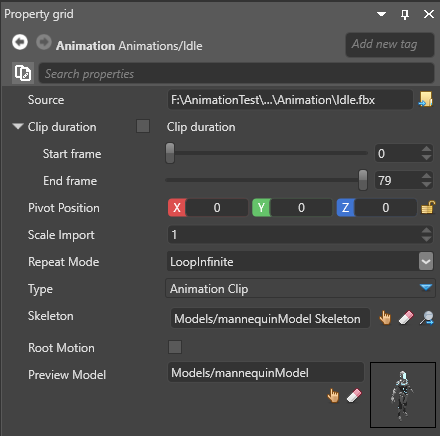
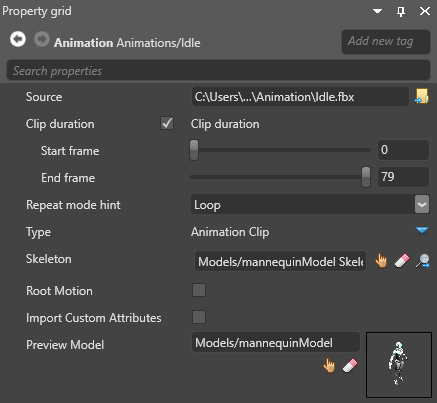
[Animation] update with custom attributes

diff --git a/en/manual/animation/custom-animation-attributes.md b/en/manual/animation/custom-animation-attributes.md
@@ -1,0 +1,97 @@
+# Custom animation properties
+
+<span class="label label-doc-level">Intermediate</span>
+
+You can import custom attributes created modeling tools such as Maya into Xenko.
+
+![Maya properties](media/custom-attributes-in-maya.png)
+
+## 1. Import custom attributes
+
+1. Import the animation. For instructions, see [Import animations](import-animations.md).
+
+2. In the **asst view**, select the animation asset.
+
+    ![Assets in asset view](media/assets-in-asset-view1.png)
+
+2. In the **property grid**, select **Import custom attributes**.
+
+    ![Custom attributes](media/import-custom-attributes.png)
+
+    When the assets are built, Xenko imports the custom attributes from the FBX file.
+
+## 2. Control custom attributes with a script
+
+Add a script to read the custom attributes and bind them to a property. This can be a separate script, or part of another [animation script](animation-scripts.md).
+
+The name of the property on the Xenko side is `NodeName_PropertyName`. For example, if you have the node `myNode` with the custom attribute `myProperty`, use `myNode_myProperty`.
+
+### Example script
+
+```cs
+using SiliconStudio.Xenko.Animations;
+using SiliconStudio.Xenko.Engine;
+using SiliconStudio.Xenko.Rendering;
+using SiliconStudio.Xenko.Audio;
+using SiliconStudio.Xenko.Rendering.Materials;
+ 
+namespace Sample
+{ 
+    public class HologramScript : SyncScript
+    { 
+        public Material MyMaterial;
+ 
+        private AnimationComponent animationComponent;
+        private AnimationProcessor animationProcessor;
+ 
+        public override void Start() 
+        { 
+            base.Start(); 
+ 
+            animationComponent = Entity.GetOrCreate<AnimationComponent>(); 
+            animationProcessor = 
+SceneSystem.SceneInstance.Processors.OfType<AnimationProcessor>().FirstOrDefault();     
+        } 
+ 
+        public override void Update() 
+        { 
+            if (animationProcessor == null || MyMaterial == null) 
+                return; 
+ 
+   // Animation result may be Null if animation hasn't been played yet. 
+            var animResult = 
+animationProcessor.GetAnimationClipResult(animationComponent); 
+            if (animResult == null) 
+                return; 
+ 
+   // Read the value of the animated custom attribute: 
+   float emmisiveIntensity; 
+            unsafe 
+            { 
+                fixed (byte* structures = animResult.Data) 
+                { 
+                    foreach (var channel in animResult.Channels) 
+                    { 
+                        if (!channel.IsUserCustomProperty) 
+                            continue; 
+                         
+                        var structureData = (float*)(structures + channel.Offset); 
+                        var factor = *structureData++; 
+                        if (factor == 0.0f) 
+                            continue; 
+ 
+                        var value = *structureData; 
+                        if (channel.PropertyName == 
+"myNode_myProperty") 
+                            emmisiveIntensity = value; 
+                    } 
+                } 
+            } 
+    
+   // Bind the material parameter: 
+  
+ MyMaterial.Passes[0].Parameters.Set(MaterialKeys.EmissiveIntensity, 
+emmisiveIntensity) 
+        } 
+    } 
+}

diff --git a/en/manual/animation/animation-properties.md b/en/manual/animation/animation-properties.md
@@ -5,15 +5,15 @@
 
 After you [import an animation](import-animations.md), you can select it in the **asset view** (in the bottom pane by default) and view and edit its properties in the **property grid** (on the right by default).
 
-![Assets in asset view](media/assets-in-asset-view2.png)
+![Assets in asset view](media/assets-in-asset-view1.png)
 
 ![Properties](media/animations-properties.png)
 
-### Source
+## Source
 
 The source file used by the animation asset. If you change this, Game Studio re-imports the animation.
 
-### Clip duration
+## Clip duration
 
 By default, clip duration is disabled. This means the animation starts at frame 0 and runs to the last written keyframe in the file.
 
@@ -23,23 +23,23 @@ The start and end frames are still limited by the keyframes exported in the file
 
 By default, Game Studio assumes the frame rate is 30. You can change this in the **Game settings** asset properties under **Editor settings > Animation frame rate**.
  
-### Pivot position
+## Pivot position
 
 Game Studio assumes the pivot is the origin of the coordinate system local to the animation. It should be set to `(0, 0, 0)`. If your animation was shifted from the origin when exported, you can use this property to re-adjust it.
 
-### Scale import
+## Scale import
 
 The scale import should be set to `1`. Xenko detects the units in which your data was exported and adjusts it automatically. If there are no export settings in your animation file and the scale appears incorrect, you can use the scale import property to re-adjust it.
 
-### Repeat mode
+## Repeat mode
 
 You can choose **PlayOnce**, **LoopInfinite** or **PlayOnce&Hold**. This is just a *hint* for the engine. When you assign an animation asset to the model, you can specify differently. If you don't specify the mode later, Xenko uses the attribute you set here by default.
  
-### Type
+## Type
 
 Xenko supports two types of animation clip. Regular animations default to **Animation clip** and are used with linear blending if mixed. For **Difference clip**, there are few more settings. For more information, see [Additive animation](additive-animation.md).
 
-### Skeleton
+## Skeleton
 
 If you want to animate bones/joints, the animation needs a skeleton.
 
@@ -50,7 +50,7 @@ Make sure you reference the same skeleton used by the model you want to animate.
 >[!NOTE]
 >There's currently no way to visualize skeletons in Game Studio.
 
-### Root motion
+## Root motion
 
 When root motion is enabled, Xenko applies the **root node animation** to the [TransformComponent](xref:SiliconStudio.Xenko.Engine.TransformComponent) of the entity you add the animation to, instead of applying it to the skeleton.
 
@@ -61,6 +61,10 @@ This is useful, for example, to animate entities that don't require skeletons, s
 
 >[!Note]
 >The [TransformComponent](xref:SiliconStudio.Xenko.Engine.TransformComponent) applies an offset to the model node position. If you don't want to add an offset, make sure the [TransformComponent](xref:SiliconStudio.Xenko.Engine.TransformComponent) is set to `0,0,0`.
+
+## Import custom attributes
+
+If you have custom attribute in the animation file...
 
 ## See also
 

diff --git a/en/manual/animation/import-animations.md b/en/manual/animation/import-animations.md
@@ -17,13 +17,13 @@ You can import these assets from 3D model files. Xenko supports the following mo
 
     ![Choose asset type](media/create-and-add-assets-drag-and-drop-model.png)
 
-    * Alternatively, in the **asset view**: 
+    Alternatively, in the **asset view**: 
 
-        1a. Click ![Add asset](media/create-and-add-assets-add-new-asset-button.png) and select **Import directly from files**.
+    1a. Click ![Add asset](media/create-and-add-assets-add-new-asset-button.png) and select **Import directly from files**.
     
-        ![Choose asset type](media/create-and-add-assets-add-new1.png)
+    ![Choose asset type](media/create-and-add-assets-add-new1.png)
 
-        2b. Browse to the file and click **Open**.
+    2b. Browse to the file and click **Open**.
 
 2. Specify whether you want to import the **3D model**, **animation**, or **skeleton** from the model file.
 
@@ -37,11 +37,9 @@ You can import these assets from 3D model files. Xenko supports the following mo
 
     * If you choose **Animation**, Xenko imports only the animation from the model file. This is sufficient for regular animations; for additive information, there are some extra steps. For details, see [Additive animation](additive-animation.md).
 
-After you import the model, animation, and/or skeleton assets, Game Studio adds them to the **asset view**.
+After you import the assets, Game Studio adds them to the **asset view**.
 
 ![Assets in asset view](media/assets-in-asset-view1.png)
-
-![Assets in asset view](media/assets-in-asset-view2.png)
 
 You can view and edit their properties in the **property grid** (on the right by default). For more information, see [Animation properties](animation-properties.md).
 
@@ -65,3 +63,4 @@ To use an animation asset, add an [AnimationComponent](xref:SiliconStudio.Xenko.
 * [Procedural animation](procedural-animation.md)
 * [Custom blend trees](custom-blend-trees.md)
 * [Model node links](model-node-links.md)
+* [Custom animation attributes](custom-animation-attributes.md)

diff --git a/en/manual/animation/model-node-links.md b/en/manual/animation/model-node-links.md
@@ -68,6 +68,7 @@ To add an offset to the linked entity, use the entity's [TransformComponent](xre
 * [Additive animation](additive-animation.md)
 * [Procedural animation](procedural-animation.md)
 * [Custom blend trees](custom-blend-trees.md)
+* [Custom animation attributes](custom-animation-attributes.md)
 
 For examples of how model node links are used, see:
 

diff --git a/en/manual/toc.md b/en/manual/toc.md
@@ -31,6 +31,7 @@
 ## [Procedural animation](animation/procedural-animation.md)
 ## [Custom blend trees](animation/custom-blend-trees.md)
 ## [Model node links](animation/model-node-links.md)
+## [Custom animation attributes](animation/custom-animation-attributes.md)
 
 # [Audio](audio/index.md)
 ## [Import audio](audio/import-audio.md)

diff --git a/en/manual/animation/additive-animation.md b/en/manual/animation/additive-animation.md
@@ -137,3 +137,4 @@ You can use additive animations with animations that use the same skeleton and s
 * [Animation scripts](animation-scripts.md)
 * [Procedural animation](procedural-animation.md)
 * [Custom blend trees](custom-blend-trees.md)
+* [Custom animation attributes](custom-animation-attributes.md)

diff --git a/en/manual/animation/animation-scripts.md b/en/manual/animation/animation-scripts.md
@@ -110,3 +110,4 @@ You an also override the animation blend tree and do all animation blending in t
 * [Procedural animation](procedural-animation.md)
 * [Custom blend trees](custom-blend-trees.md)
 * [Model node links](model-node-links.md)
+* [Custom animation attributes](custom-animation-attributes.md)

diff --git a/en/manual/animation/index.md b/en/manual/animation/index.md
@@ -53,3 +53,4 @@ The templates **First-person shooter**, **Third-person platformer** and **Top-do
 * [Procedural animation](procedural-animation.md)
 * [Custom blend trees](custom-blend-trees.md)
 * [Model node links](model-node-links.md)
+* [Custom animation attributes](custom-animation-attributes.md)

diff --git a/en/manual/animation/preview-animations.md b/en/manual/animation/preview-animations.md
@@ -48,3 +48,4 @@ The animation preview uses the model selected in the **preview model** in the **
 * [Procedural animation](procedural-animation.md)
 * [Custom blend trees](custom-blend-trees.md)
 * [Model node links](model-node-links.md)
+* [Custom animation attributes](custom-animation-attributes.md)

diff --git a/en/manual/animation/set-up-animations.md b/en/manual/animation/set-up-animations.md
@@ -93,3 +93,4 @@ Game Studio adds the script as a component. You can adjust [public variables you
 * [Procedural animation](procedural-animation.md)
 * [Custom blend trees](custom-blend-trees.md)
 * [Model node links](model-node-links.md)
+* [Custom animation attributes](custom-animation-attributes.md)

diff --git a/en/manual/animation/custom-blend-trees.md b/en/manual/animation/custom-blend-trees.md
@@ -108,3 +108,4 @@ public class AnimationBlendTree : SyncScript, IBlendTreeBuilder
 * [Additive animation](additive-animation.md)
 * [Procedural animation](procedural-animation.md)
 * [Model node links](model-node-links.md)
+* [Custom animation attributes](custom-animation-attributes.md)

diff --git a/en/manual/animation/procedural-animation.md b/en/manual/animation/procedural-animation.md
@@ -80,3 +80,4 @@ public class AnimationScript : StartupScript
 * [Additive animation](additive-animation.md)
 * [Custom blend trees](custom-blend-trees.md)
 * [Model node links](model-node-links.md)
+* [Custom animation attributes](custom-animation-attributes.md)
